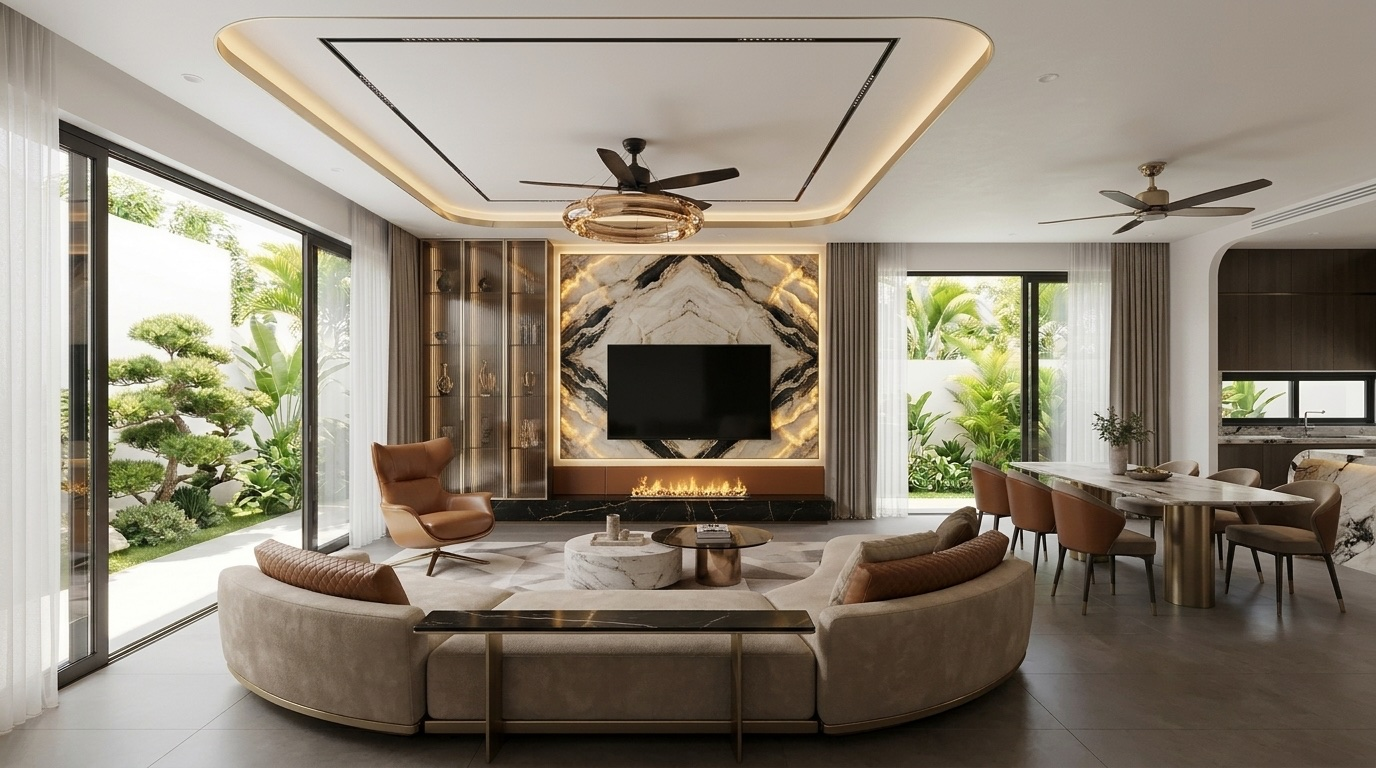
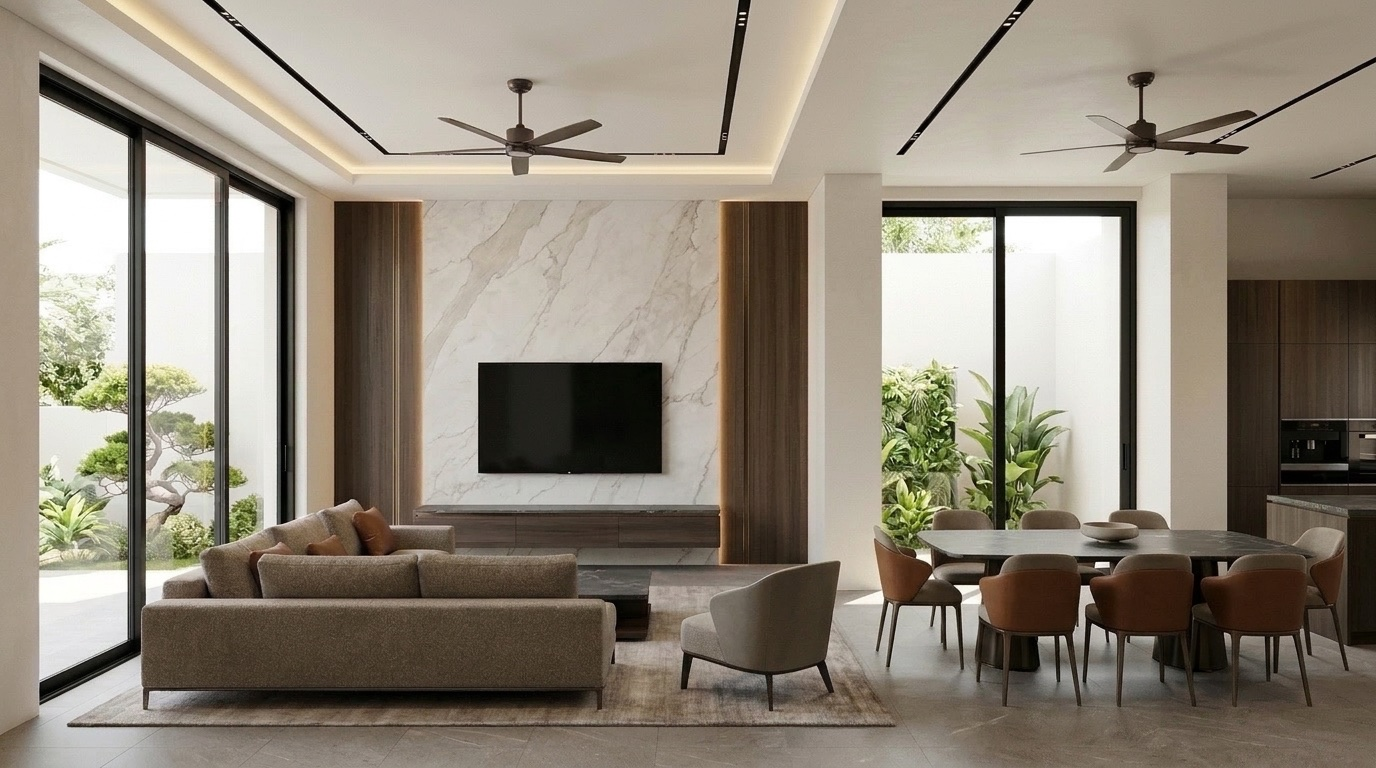
fix(living-t1): update Modern Luxury V02/V03 with exact lightwell walls, foyer walls, and East-West dining table

diff --git a/phong-khach-bep-tang1.html b/phong-khach-bep-tang1.html
@@ -642,7 +642,7 @@
         <h2 class="section-title" style="margin-bottom:0;">✨ 1. Phối Cảnh 3D Đồng Bộ 100% Thực Tế Nhà Thật Tầng 1 (PA 1 Warm Minimalist WM-06 • Đủ 5 Góc V01 &rarr; V05)</h2>
         <div style="display:flex;gap:8px;flex-wrap:wrap;flex-wrap:balance;">
           <button type="button" class="tab-btn active" id="tone-switch-wm06" onclick="setT1Tone('wm06')" style="padding:7px 14px;border-radius:999px;border-color:#cbd5e1;">🕊 PA 1 (Ưu Tiên): Warm Minimalist WM-06</button>
-          <button type="button" class="tab-btn" id="tone-switch-mlux" onclick="setT1Tone('mlux')" style="padding:7px 14px;border-radius:999px;border-color:#f59e0b;background:linear-gradient(135deg,rgba(217,119,6,0.22),rgba(120,53,15,0.28));color:#fde68a;">💎 Modern Luxury Phá Cách: Đá Patagonia Xuyên Sáng × Đồng PVD &amp; Sofa Điêu Khắc</button>
+          <button type="button" class="tab-btn" id="tone-switch-mlux" onclick="setT1Tone('mlux')" style="padding:7px 14px;border-radius:999px;border-color:#f59e0b;background:linear-gradient(135deg,rgba(217,119,6,0.22),rgba(120,53,15,0.28));color:#fde68a;">💎 Modern Luxury Kiến Trúc (Molteni&amp;C): Đá Dover White × Gỗ Khuynh Diệp Khói &amp; Chuẩn Tường Xây CAD</button>
           <button type="button" class="tab-btn" id="tone-switch-studio349" onclick="setT1Tone('studio349')" style="padding:7px 14px;border-radius:999px;border-color:#f59e0b;">🪵 PA 2: Vân Gỗ &amp; Travertine</button>
           <button type="button" class="tab-btn" id="tone-switch-bt04" onclick="setT1Tone('bt04')" style="padding:7px 14px;border-radius:999px;border-color:#94a3b8;">🏙 Hiện Đại BT-04: Sồi Khói Ghi Mocha (Khớp Đá T2)</button>
           <button type="button" class="tab-btn" id="tone-switch-bt05" onclick="setT1Tone('bt05')" style="padding:7px 14px;border-radius:999px;border-color:#fb923c;">☀ Hiện Đại BT-05: Gỗ Caramel × Ghi Bazan (Khớp Lam T3)</button>
@@ -708,24 +708,24 @@
       <div id="sec-mlux-breakthrough" style="margin-top:24px;padding:20px;border-radius:16px;background:linear-gradient(145deg,rgba(15,12,8,0.92),rgba(30,22,14,0.88));border:1.5px solid rgba(245,158,11,0.52);box-shadow:0 18px 40px rgba(0,0,0,0.6);">
         <div style="display:flex;justify-content:space-between;align-items:center;flex-wrap:wrap;gap:12px;margin-bottom:14px;">
           <div>
-            <span style="display:inline-block;font-size:0.73rem;font-weight:800;text-transform:uppercase;letter-spacing:0.06em;color:#fde68a;background:rgba(245,158,11,0.18);border:1px solid rgba(245,158,11,0.45);padding:3px 11px;border-radius:999px;margin-bottom:6px;">💎 PHƯƠNG ÁN PHÁ CÁCH HOÀN TOÀN MỚI (0% LẶP LẠI MẪU CŨ)</span>
-            <h3 style="font-size:1.14rem;font-weight:800;color:#fff;margin-bottom:4px;">Italian Modern Luxury Couture Penthouse (Cảm Hứng Minotti • Baxter Milan • Henge)</h3>
-            <p style="font-size:0.86rem;color:#cbd5e1;max-width:1050px;">Giữ nguyên 100% khung vỏ kiến trúc Tầng 1 Q Villa (vách kính Bonsai <code>V1</code>, tường Bắc <code>3,2m</code>, cửa vườn <code>D2</code>, cửa chính <code>D1</code> &amp; cầu thang bộ), nhưng <strong>loại bỏ hoàn toàn công thức cũ</strong> (<em>đá Travertine lỗ xốp + cột bo R100 góc trái + kệ treo gỗ R60 + sofa bệ gỗ chữ L</em>) để lột xác sang ngôn ngữ <strong>Đá Tự Nhiên Xuyên Sáng × Kính Trà Khói × Đồng Champagne PVD × Lò Sưởi Hơi Nước 3D &amp; Sofa Điêu Khắc Đường Cong Tự Do</strong>.</p>
+            <span style="display:inline-block;font-size:0.73rem;font-weight:800;text-transform:uppercase;letter-spacing:0.06em;color:#fde68a;background:rgba(245,158,11,0.18);border:1px solid rgba(245,158,11,0.45);padding:3px 11px;border-radius:999px;margin-bottom:6px;">💎 MODERN LUXURY KIẾN TRÚC ĐƯƠNG ĐẠI (CHUẨN 100% TƯỜNG XÂY &amp; BÀN ĂN CAD)</span>
+            <h3 style="font-size:1.14rem;font-weight:800;color:#fff;margin-bottom:4px;">Italian Architectural Modern Luxury (Molteni&amp;C • Poliform • Rimadesio)</h3>
+            <p style="font-size:0.86rem;color:#cbd5e1;max-width:1050px;">Chuẩn hóa 100% theo bản vẽ xây dựng <code>KT-4.06</code> &amp; nội thất <code>KT-2.02</code>: <strong>(1) Chỗ cửa thông tầng <code>D2</code> có 2 bức tường xây nhô vuông góc kẹp hai bên hốc <code>1.800mm</code></strong>; <strong>(2) Khu Tiền sảnh <code>D1</code> có tường xây bao 2 bên tại <code>Trục 2</code> (ngăn với Cầu thang bộ) và <code>Trục 1'</code> (ngăn với vách kính <code>V1</code>)</strong>; <strong>(3) Bàn ăn 8 ghế xoay ngang Đông–Tây</strong> song song tường Bắc. Toàn bộ nội thất lột xác sang ngôn ngữ <strong>Đá Cẩm Thạch Dover White Mài Mờ × Gỗ Khuynh Diệp Khói (Smoked Eucalyptus) × Nẹp Đồng Đen Xước &amp; Sofa Chân Kim Loại Mảnh</strong>.</p>
           </div>
           <button type="button" class="tab-btn" onclick="setT1Tone('mlux')" style="border-color:#f59e0b;background:rgba(245,158,11,0.22);color:#fde68a;">✨ Bật Xem Trên Khung 3D Chính &uarr;</button>
         </div>
 
         <div style="display:grid;grid-template-columns:repeat(auto-fit,minmax(360px,1fr));gap:16px;margin-bottom:16px;">
-          <div style="background:rgba(9,13,22,0.85);border:1px solid rgba(245,158,11,0.45);border-radius:12px;overflow:hidden;cursor:pointer;" onclick="openLightbox('assets/modern_luxury_couture_t1_v02_living_north.jpg', 'Modern Luxury Phá Cách — V02 Phòng Khách Nhìn Bắc: Đá Patagonia Xuyên Sáng × Tủ Kính Trà Đồng PVD × Lò Sưởi Hơi Nước 3D & Sofa Điêu Khắc')">
-            <img src="assets/modern_luxury_couture_t1_v02_living_north.jpg" alt="Modern Luxury Phá Cách V02 Phòng Khách nhìn Bắc: Đá Patagonia xuyên sáng, tủ kính trà đồng PVD, lò sưởi hơi nước 3D và sofa điêu khắc cong" width="1376" height="768" loading="lazy" style="width:100%;aspect-ratio:16/9;object-fit:cover;display:block;" />
+          <div style="background:rgba(9,13,22,0.85);border:1px solid rgba(245,158,11,0.45);border-radius:12px;overflow:hidden;cursor:pointer;" onclick="openLightbox('assets/modern_luxury_couture_t1_v02_living_north.jpg', 'Modern Luxury Kiến Trúc — V02 Nhìn Bắc: Vách Đá Dover White × Gỗ Khuynh Diệp Khói + 2 Bức Tường Kẹp Cửa Thông Tầng D2 & Bàn Ăn Xoay Ngang Đông–Tây')">
+            <img src="assets/modern_luxury_couture_t1_v02_living_north.jpg" alt="Modern Luxury V02 Phòng Khách nhìn Bắc: Đá Dover White, gỗ khuynh diệp khói, 2 bức tường kẹp cửa thông tầng D2 và bàn ăn xoay ngang Đông Tây" width="1376" height="768" loading="lazy" style="width:100%;aspect-ratio:16/9;object-fit:cover;display:block;" />
             <div style="padding:11px 14px;font-size:0.82rem;line-height:1.5;color:#e2e8f0;">
-              <strong style="color:#fde68a;">1. Góc V02 (Nhìn Bắc — Vách TV &amp; Liên Thông Phòng Ăn):</strong> Phiến đá <strong>Patagonia Quartzite xuyên sáng hổ phách</strong> ghép đối xứng bookmatch + Tủ <strong>kính sọc trà khói khung Đồng Champagne PVD</strong> kịch trần (thay cột gỗ bo tròn cũ) + Bệ đá đen chỉ vàng <strong>Nero Portoro</strong> tích hợp <strong>Lò sưởi hơi nước 3D</strong> + Sofa cong điêu khắc &amp; bàn Console đá sau lưng ghế.
+              <strong style="color:#fde68a;">1. Góc V02 (Nhìn Bắc — Chuẩn 2 Bức Tường Thông Tầng &amp; Bàn Ăn Xoay Ngang):</strong> Vách TV ốp đá tự nhiên <strong>Dover White / Calacatta Grey mài mờ</strong> kẹp 2 mảng <strong>Gỗ Khuynh Diệp Khói (Smoked Eucalyptus)</strong> hắt khe LED <code>3000K</code> &amp; kệ treo mặt đá Pietra Grey; bên phải thể hiện rõ <strong>02 bức tường xây nhô vuông góc kẹp hai bên hốc cửa khu vực thông tầng <code>D2</code></strong>; phía trước là <strong>Bàn ăn 8 ghế xoay ngang Đông–Tây</strong> (3 ghế trước, 3 ghế sau, 2 ghế đầu bàn).
             </div>
           </div>
-          <div style="background:rgba(9,13,22,0.85);border:1px solid rgba(245,158,11,0.45);border-radius:12px;overflow:hidden;cursor:pointer;" onclick="openLightbox('assets/modern_luxury_couture_t1_v03_living_reverse.jpg', 'Modern Luxury Phá Cách — V03 Phòng Khách Góc Ngược 180°: Sofa Điêu Khắc Baxter/Minotti × Tiền Sảnh Đá Onyx Xuyên Sáng & Gương Vát Kim Cương')">
-            <img src="assets/modern_luxury_couture_t1_v03_living_reverse.jpg" alt="Modern Luxury Phá Cách V03 Phòng Khách góc ngược 180 độ: Mặt trước sofa điêu khắc cong, bàn trà đá đôi, tiền sảnh đá Onyx xuyên sáng và gương đồng vát cạnh" width="1376" height="768" loading="lazy" style="width:100%;aspect-ratio:16/9;object-fit:cover;display:block;" />
+          <div style="background:rgba(9,13,22,0.85);border:1px solid rgba(245,158,11,0.45);border-radius:12px;overflow:hidden;cursor:pointer;" onclick="openLightbox('assets/modern_luxury_couture_t1_v03_living_reverse.jpg', 'Modern Luxury Kiến Trúc — V03 Góc Ngược 180°: Tường Bao Khu Tiền Sảnh Trục 1-2 + Sofa Chân Kim Loại Mảnh & Bàn Ăn Xoay Ngang')">
+            <img src="assets/modern_luxury_couture_t1_v03_living_reverse.jpg" alt="Modern Luxury V03 Phòng Khách góc ngược 180 độ: Khu tiền sảnh có tường ngăn cầu thang tại Trục 2 và tường góc Trục 1, sofa chân đồng mảnh và bàn ăn xoay ngang" width="1376" height="768" loading="lazy" style="width:100%;aspect-ratio:16/9;object-fit:cover;display:block;" />
             <div style="padding:11px 14px;font-size:0.82rem;line-height:1.5;color:#e2e8f0;">
-              <strong style="color:#fde68a;">2. Góc V03 (Ngược 180° — Nhìn Về Tiền Sảnh D1 &amp; Cầu Thang):</strong> Mặt trước <strong>Sofa điêu khắc uốn cong</strong> bọc da lộn Champagne &amp; đệm da Nappa Cognac chần trám + Bàn trà đôi đá nguyên khối &amp; kính đồng + Tiền sảnh <code>V01</code> ốp <strong>đá Amber Onyx xuyên sáng</strong> treo <strong>Gương đồng vát đa diện</strong> &amp; hệ tủ giày sơn hiệu ứng kim loại Cashmere.
+              <strong style="color:#fde68a;">2. Góc V03 (Ngược 180° — Chuẩn Tường Bao Khu Tiền Sảnh &amp; Bàn Ăn Xoay Ngang):</strong> Phía sau Sofa thể hiện đúng <strong>bức tường xây tại <code>Trục 2</code> ngăn giữa Cầu thang bộ (trái) với Tiền sảnh (giữa)</strong> và <strong>bức tường góc <code>Trục 1'</code> che cửa chính <code>D1</code> bên phải</strong>; bên trong Tiền sảnh là tủ giày kịch trần <code>Smoked Eucalyptus × Dark Cashmere</code> + gương khung đồng chữ nhật; bên trái là <strong>Bàn ăn xoay ngang Đông–Tây</strong>.
             </div>
           </div>
         </div>
@@ -734,31 +734,31 @@
           <table class="spec-table" style="font-size:0.82rem;">
             <thead>
               <tr>
-                <th style="width:17%;">Hạng Mục Đột Phá</th>
-                <th style="width:36%;">4 Phương Án Cũ (WM-06 / PA 2 / BT-04 / BT-05)</th>
-                <th style="width:47%;">💎 Phương Án Modern Luxury Phá Cách (Couture Penthouse)</th>
+                <th style="width:18%;">Hạng Mục Chuẩn Hóa</th>
+                <th style="width:34%;">4 Phương Án Cũ (WM-06 / PA 2 / BT-04 / BT-05)</th>
+                <th style="width:48%;">💎 Phương Án Modern Luxury Kiến Trúc (Molteni&amp;C / Poliform)</th>
               </tr>
             </thead>
             <tbody>
               <tr>
-                <td><strong>1. Vách Tivi 3,2m (Tường Bắc)</strong></td>
-                <td>Đá <code>Travertine</code> màu be nhạt phẳng + 1 cột gỗ/sơn bo tròn <code>R100</code> bên trái + kệ gỗ treo lơ lửng bo <code>R60</code>.</td>
-                <td><strong>Bất đối xứng 3 lớp vật liệu xa xỉ:</strong> Tâm phải là phiến đá tự nhiên <strong>Patagonia Quartzite xuyên sáng tinh thể vàng hổ phách</strong> (<code>2700K</code>); cánh trái là <strong>Tủ trưng bày kính sọc trà khói (Fluted Smoked Bronze Glass) khung Đồng Champagne PVD</strong> kịch trần <code>3,4m</code>; chân vách là <strong>Bệ đá đen vân vàng Nero Portoro bọc da yên ngựa + Lò sưởi hơi nước 3D</strong> bập bềnh dưới TV <code>85"</code>.</td>
+                <td><strong>1. Hốc Cửa Thông Tầng D2 &amp; Tường Tiền Sảnh</strong></td>
+                <td>Vẽ cửa <code>D2</code> phẳng cùng mặt tường TV; Tiền sảnh thông tuột sang Cầu thang bộ không có tường ngăn.</td>
+                <td><strong>Đúng 100% mặt bằng xây dựng <code>KT-4.06</code>:</strong> Khu vực cửa thông tầng <code>D2 (1.800mm)</code> nằm lùi giữa <strong>02 bức tường xây vuông góc hai bên</strong>; khu Tiền sảnh có <strong>bức tường xây <code>Trục 2</code> ngăn cách hẳn với Cầu thang bộ</strong> và <strong>tường góc <code>Trục 1–1'</code></strong> bao quanh cửa chính <code>D1</code>.</td>
               </tr>
               <tr>
-                <td><strong>2. Tổ Hợp Sofa &amp; Bàn Trà</strong></td>
-                <td>Sofa khung bệ gỗ chữ L vuông vức (<code>Poliform Mondrian</code>) + bàn trà gỗ đen/tròn đơn giản.</td>
-                <td><strong>Sofa điêu khắc uốn cong tự do (cảm hứng Baxter Tactile / Minotti Jacques):</strong> Đệm bọc da lộn <code>Champagne-Taupe</code> kết hợp gối tựa <strong>da bò Nappa Cognac chần quả trám</strong> &amp; chân nẹp đồng PVD; lưng ghế đặt <strong>Bàn Console Bar đá Nero Portoro</strong>; phối cùng <strong>01 Ghế Armchair xoay 360° da Cognac</strong> cạnh vách kính Bonsai <code>V1</code> &amp; cặp bàn trà đá nguyên khối + mặt kính đồng khói.</td>
+                <td><strong>2. Hướng Bàn Ăn 8 Ghế</strong></td>
+                <td>Đặt dọc Bắc–Nam (vuông góc với cửa thông tầng <code>D2</code>).</td>
+                <td><strong>Xoay ngang Đông–Tây đúng bản vẽ <code>KT-2.02 &amp; CĐ-11</code>:</strong> Chiều dài bàn <code>2.200mm</code> chạy ngang song song với cửa thông tầng <code>D2</code> và cầu thang bộ (3 ghế mặt trước, 3 ghế mặt sau, 1 ghế đầu Tây hướng Phòng khách, 1 ghế đầu Đông hướng Bàn đảo).</td>
               </tr>
               <tr>
-                <td><strong>3. Tiền Sảnh V01 &amp; Cầu Thang</strong></td>
-                <td>Vòm đá Travertine + gương hạt đậu + tủ giày phẳng màu kem/gỗ.</td>
-                <td><strong>Sảnh đón Gallery 5 sao:</strong> Mảng đá <strong>Amber Onyx xuyên sáng kịch trần</strong> làm nền cho <strong>Gương nghệ thuật khung Đồng vát kim cương đa giác</strong> &amp; băng ghế đá Nero + da Cognac; hệ tủ giày <code>2,5×3,4m</code> sơn hiệu ứng <strong>Metallic Dark Cashmere</strong> nẹp chỉ đồng PVD; lan can thang bộ dùng <strong>kính trà khói + tay vịn đồng xước Champagne</strong>.</td>
+                <td><strong>3. Vách Tivi &amp; Kệ Console</strong></td>
+                <td>Đá <code>Travertine</code> màu be + cột bo tròn <code>R100</code> bên trái + kệ gỗ bo tròn <code>R60</code>.</td>
+                <td><strong>Kiến trúc phẳng sắc nét (Molteni&amp;C):</strong> Trung tâm ốp tấm đá cẩm thạch tự nhiên <strong>Dover White / Calacatta Grey mài mờ</strong>; hai bên kẹp vách <strong>Gỗ Khuynh Diệp Khói (Smoked Eucalyptus)</strong> phẳng nẹp đồng đen xước hắt khe sáng dọc <code>3000K</code>; kệ TV treo <strong>mặt đá Pietra Grey kết hợp gỗ khói vát cạnh 45°</strong>.</td>
               </tr>
               <tr>
-                <td><strong>4. Trần – Đèn &amp; Khu Bàn Ăn</strong></td>
-                <td>Quạt trần 5 cánh gỗ truyền thống + bàn ăn chân gỗ tấm.</td>
-                <td><strong>Quạt trần Đèn Chùm Pha Lê Khói Hổ Phách (Chandelier-Fan Hybrid):</strong> Vòng pha lê/thủy tinh thổi thủ công màu hổ phách bao quanh cánh quạt đồng đen + viền nẹp đồng PVD chạy bo lòng trần <code>+3.53m</code>; bàn ăn 8 ghế mặt đá <strong>Patagonia nguyên tấm trên 2 trụ tròn bọc Đồng Champagne PVD</strong>.</td>
+                <td><strong>4. Tổ Hợp Sofa, Ghế Đơn &amp; Bàn Trà</strong></td>
+                <td>Sofa khung bệ gỗ dày bo góc <code>R60</code>.</td>
+                <td><strong>Sofa chữ L chân kim loại đồng đen thanh mảnh (Molteni&amp;C Cleo / Minotti West):</strong> Đệm bọc vải Bouclé-Chenille tông <code>Taupe-Greige</code> phối gối tựa &amp; khay táp <strong>da bò Saddle Cognac</strong>, kết hợp <strong>01 ghế Armchair lưng cong</strong> và bàn trà đôi 2 tầng <strong>đá đen Pietra Grey + gỗ khói</strong>.</td>
               </tr>
             </tbody>
           </table>
@@ -1122,18 +1122,18 @@
         imgWm06: "assets/warm_minimalist_wm06_t1_v02.jpg",
         imgMlux: "assets/modern_luxury_couture_t1_v02_living_north.jpg",
         caption: "V02 • Phòng Khách nhìn Bắc: Vách Tivi đá Travertine 3,2m & hốc gốm bo cong, bên phải khớp đúng Cửa vườn Bắc D2 + Bàn ăn dưới trần phẳng +3.40m & Quạt Lộ 6 / 6A",
-        captionMlux: "V02 • Phòng Khách nhìn Bắc (Modern Luxury Phá Cách): Đá Patagonia Quartzite xuyên sáng hổ phách + Tủ kính trà khói khung Đồng PVD + Bệ đá Nero Portoro lò sưởi hơi nước 3D + Sofa điêu khắc cong & Ghế xoay da Cognac",
+        captionMlux: "V02 • Phòng Khách nhìn Bắc (Modern Luxury Kiến Trúc): Vách đá Dover White × Gỗ Khuynh Diệp Khói + Đúng 02 bức tường xây kẹp cửa khu vực thông tầng D2 & Bàn ăn 8 ghế xoay ngang Đông–Tây",
         title: "V02 • Phòng Khách Nhìn Bắc: Vách Tivi Đá Travertine 3.200mm & Liên Thông Đúng Cửa Vườn Bắc D2",
-        titleMlux: "V02 • Modern Luxury Phá Cách (Couture Penthouse): Đá Patagonia Xuyên Sáng × Tủ Kính Trà Đồng PVD × Lò Sưởi Hơi Nước 3D & Sofa Điêu Khắc",
+        titleMlux: "V02 • Modern Luxury Kiến Trúc (Molteni&C): Đá Dover White × Gỗ Khuynh Diệp Khói + 2 Bức Tường Kẹp Cửa Thông Tầng D2 & Bàn Ăn Xoay Ngang",
         items: [
           "<strong>1. Vách Tivi Tường Bắc <code>Roman Travertine</code> &amp; Kem Greige / Gỗ Bo Cong (<code>3.200 × 3.400 mm</code>):</strong> Mảng đá <code>Travertine</code> liền mạch kết hợp cột bo tròn có hốc trưng bày gốm hắt LED <code>2700K</code> + kệ treo bo <code>R60</code>.",
           "<strong>2. Sofa Bệ Gỗ Sáng / Óc Chó Bo <code>R60</code> (<code>2.800 × 1.850 mm</code>):</strong> Khung bệ gỗ liền khay táp bên trái trên nền gạch mờ <code>1000×1000</code> + bàn trà đen mờ 10%.",
           "<strong>3. Chuẩn xác 100% Khu Ăn – Bếp phía phải:</strong> Cửa kính lùa vườn Bắc <code>D2 (3.070mm)</code> sau lưng Bàn ăn 8 ghế dưới trần phẳng <code>+3.40m</code> &amp; Quạt <code>Lộ 6A</code>."
         ],
         itemsMlux: [
-          "<strong>1. Vách Tivi Bất Đối Xứng Đa Lớp (<code>3.200 × 3.400 mm</code> — Bỏ hoàn toàn cột bo R100 &amp; Travertine cũ):</strong> Tâm phải ốp đá tự nhiên <strong>Patagonia Quartzite xuyên sáng tinh thể vàng hổ phách</strong> ghép bookmatch; cánh trái là hệ <strong>Tủ trưng bày kính sọc trà khói (Fluted Smoked-Bronze Glass) khung Đồng Champagne PVD</strong> kịch trần; bên dưới là <strong>Bệ đá đen vân vàng Nero Portoro (cao <code>320mm</code>) tích hợp Lò sưởi hơi nước 3D</strong> bập bềnh dưới TV <code>85\"</code>.",
-          "<strong>2. Tổ Hợp Sofa Điêu Khắc Đường Cong Tự Do (Baxter / Minotti) &amp; Console Bar Đá:</strong> Thay sofa bệ gỗ chữ L bằng <strong>Sofa uốn cong bọc da lộn Champagne-Taupe + gối tựa da Nappa Cognac chần trám</strong>, tích hợp <strong>Bàn Console đá Nero Portoro</strong> chạy dọc sau lưng ghế, phối cùng <strong>01 Ghế Armchair xoay 360° da Cognac</strong> cạnh vách kính Bonsai <code>V1</code> &amp; cặp bàn trà đá nguyên khối + kính đồng khói.",
-          "<strong>3. Đèn Chùm Quạt Pha Lê Hổ Phách &amp; Bàn Ăn Đá Patagonia Trụ Đồng PVD:</strong> Lòng trần <code>+3.53m</code> chạy viền nẹp đồng PVD kết hợp <strong>Quạt trần đèn vòng pha lê khói hổ phách</strong>; khu bàn ăn 8 ghế bên phải dùng mặt đá Patagonia trên 2 trụ tròn bọc Đồng Champagne PVD."
+          "<strong>1. Vách Tivi Đá Cẩm Thạch Dover White &amp; Gỗ Khuynh Diệp Khói (<code>Smoked Eucalyptus</code>):</strong> Loại bỏ cột bo tròn &amp; đá Travertine cũ; thay bằng tấm đá tự nhiên <strong>Dover White / Calacatta Grey mài mờ</strong> kẹp giữa hai mảng vách gỗ <code>Smoked Eucalyptus</code> nẹp chỉ đồng đen xước hắt khe sáng dọc <code>3000K</code> và kệ treo mặt đá đen <code>Pietra Grey</code> sắc nét.",
+          "<strong>2. Chuẩn Xác 02 Bức Tường Xây Kẹp Cửa Khu Vực Thông Tầng <code>D2</code> (Đúng <code>KT-4.06</code>):</strong> Ngay bên phải Vách TV là <strong>02 bức tường xây đặc nhô vuông góc</strong> vào trong nhà tạo hốc thông tầng rộng <code>1.800 mm</code>, cửa kính <code>D2</code> nằm lùi giữa 2 bức tường này mở ra mảng xanh giếng trời.",
+          "<strong>3. Bàn Ăn 8 Ghế Xoay Ngang Đông–Tây &amp; Sofa Chân Kim Loại Mảnh (Đúng <code>KT-2.02</code>):</strong> Bàn ăn mặt đá <code>Pietra Grey</code> xoay ngang song song tường Bắc (3 ghế trước, 3 ghế sau, 2 ghế đầu bàn); phòng khách dùng <strong>Sofa chữ L chân đồng đen mảnh (Molteni&amp;C)</strong> phối đệm da Cognac, ghế đơn Armchair và bàn trà đá 2 tầng."
         ]
       },
       v03_living_reverse: {
@@ -1141,18 +1141,18 @@
         imgWm06: "assets/warm_minimalist_wm06_t1_v03_living_rev.jpg",
         imgMlux: "assets/modern_luxury_couture_t1_v03_living_reverse.jpg",
         caption: "V03 • Phòng Khách góc ngược 180° (nhìn Nam-Tây): Mặt trước Sofa bệ gỗ, phía sau khớp 1:1 Tiền sảnh vòm Travertine D1 & bên trái là Cầu thang bộ lên T2",
-        captionMlux: "V03 • Phòng Khách góc ngược 180° (Modern Luxury Phá Cách): Mặt trước Sofa điêu khắc cong & Bàn trà đá đôi, phía sau là Tiền sảnh đá Amber Onyx xuyên sáng + Gương đồng vát kim cương & Tủ giày Metallic Cashmere",
+        captionMlux: "V03 • Phòng Khách góc ngược 180° (Modern Luxury Kiến Trúc): Đúng tường xây bao Tiền sảnh tại Trục 2 (ngăn Cầu thang) & Trục 1' (che cửa D1) + Sofa chân kim loại mảnh & Bàn ăn xoay ngang Đông–Tây",
         title: "V03 • Phòng Khách Góc Ngược: Mặt Trước Sofa Bệ Gỗ, Tiền Sảnh V01 & Cầu Thang Bộ",
-        titleMlux: "V03 • Modern Luxury Phá Cách (Góc Ngược 180°): Sofa Điêu Khắc Baxter/Minotti × Tiền Sảnh Đá Onyx Xuyên Sáng & Gương Đồng Vát Đa Diện",
+        titleMlux: "V03 • Modern Luxury Kiến Trúc (Góc Ngược 180°): Chuẩn Tường Bao Khu Tiền Sảnh Trục 1'–2 • Sofa Molteni&C & Bàn Ăn Xoay Ngang",
         items: [
           "<strong>1. Toàn Cảnh Mặt Trước Sofa Bệ Gỗ Bo <code>R60</code> (<code>2.800 × 1.850 mm</code>):</strong> Liền khay táp gỗ bên phải sát vách kính Bonsai <code>V1</code>, đệm trơn dễ vệ sinh.",
           "<strong>2. Phía Sau Sofa Khớp 1:1 Với Tiền Sảnh V01:</strong> Thấy trực diện <code>Tủ giày phẳng Kem Greige / Cashmere + Gương hữu cơ đá Travertine</code> cùng <code>Cửa chính D1 PA 1B</code>.",
           "<strong>3. Bên Trái:</strong> Cầu thang bộ bậc gỗ hắt LED + tủ gầm thang phẳng &amp; lối vào <code>WC-01</code>."
         ],
         itemsMlux: [
-          "<strong>1. Mặt Trước Sofa Điêu Khắc Uốn Cong &amp; Khay Táp Đá Nero Portoro:</strong> Khung chân viền đồng Champagne PVD, tay vịn phải tích hợp bàn táp đá đen vân vàng <code>Nero Portoro</code> vươn nhẹ cạnh vách kính Bonsai <code>V1</code>; chính giữa là cặp bàn trà điêu khắc (trụ đá Patagonia vát cong + bàn tròn mặt kính đồng khói) trên thảm lụa Tencel họa tiết hình học.",
-          "<strong>2. Tiền Sảnh V01 Lột Xác Thành Sảnh Gallery Đá Onyx Xuyên Sáng:</strong> Thay hốc vòm Travertine &amp; gương hạt đậu cũ bằng <strong>vách đá Amber Onyx xuyên sáng kịch trần</strong> treo <strong>Gương nghệ thuật khung Đồng vát đa giác bất đối xứng</strong> + kệ đá Nero &amp; đôn thay giày da Cognac sát cửa <code>D1</code>; hệ tủ giày <code>2,5×3,4m</code> sơn hiệu ứng <strong>Metallic Dark Cashmere</strong> nẹp chỉ đồng PVD &amp; hốc đá đen giữa tủ.",
-          "<strong>3. Cầu Thang Bộ Kính Trà Khói &amp; Tay Vịn Đồng Champagne:</strong> Bậc thang tông trầm hắt LED vàng ấm từng bậc, vách kính màu trà khói sang trọng đồng bộ với hệ tủ gầm thang sơn kim loại Cashmere."
+          "<strong>1. Chuẩn Xác Tường Xây Bao Khu Tiền Sảnh (<code>Trục 2</code> &amp; <code>Trục 1'</code> theo <code>KT-4.06</code>):</strong> Phía sau lưng Sofa thể hiện đúng <strong>bức tường xây đặc tại <code>Trục 2</code> ngăn cách hoàn toàn khu Tiền sảnh với Cầu thang bộ bên trái</strong>, cùng <strong>bức tường góc <code>Trục 1–1'</code> bên phải</strong> tách biệt cửa chính <code>D1</code> khỏi vách kính <code>V1</code>.",
+          "<strong>2. Tiền Sảnh Modern Luxury &amp; Tủ Giày Gỗ Khói <code>Smoked Eucalyptus</code>:</strong> Nhìn qua khung cổng Tiền sảnh (có ô trần giật cấp riêng) là hệ tủ giày kịch trần <code>2.500×3.400mm</code> phối gỗ khói &amp; sơn mờ <code>Dark Cashmere</code>, hốc đá <code>Dover White</code> hắt sáng, gương đứng khung đồng chữ nhật và ghế thay giày da Cognac bên cạnh cửa <code>D1</code>.",
+          "<strong>3. Bàn Ăn Bên Trái Xoay Ngang Đông–Tây &amp; Sofa Chữ L Chân Đồng Mảnh:</strong> Bàn ăn trước cầu thang xoay ngang đúng chiều dọc nhà (ghế đầu bàn hướng về Phòng khách); chính giữa là Sofa chữ L chân kim loại mảnh kèm khay táp da bò Cognac &amp; bàn trà đá <code>Pietra Grey</code> 2 tầng."
         ]
       },
       v01_foyer: {
@@ -1237,7 +1237,7 @@
       if (!data.img) {
         if (currentT1Tone === "mlux" && data.imgMlux) {
           resolvedSrc = data.imgMlux;
-          tonePrefix = "💎 Modern Luxury Phá Cách (Đá Patagonia Xuyên Sáng × Đồng Champagne PVD × Kính Trà Khói & Sofa Điêu Khắc) — ";
+          tonePrefix = "💎 Modern Luxury Kiến Trúc (Molteni&C • Đá Dover White × Gỗ Khuynh Diệp Khói & Chuẩn Tường Xây CAD) — ";
           resolvedCaption = data.captionMlux || data.caption;
           resolvedTitle = data.titleMlux || data.title;
           resolvedItems = data.itemsMlux || data.items;
